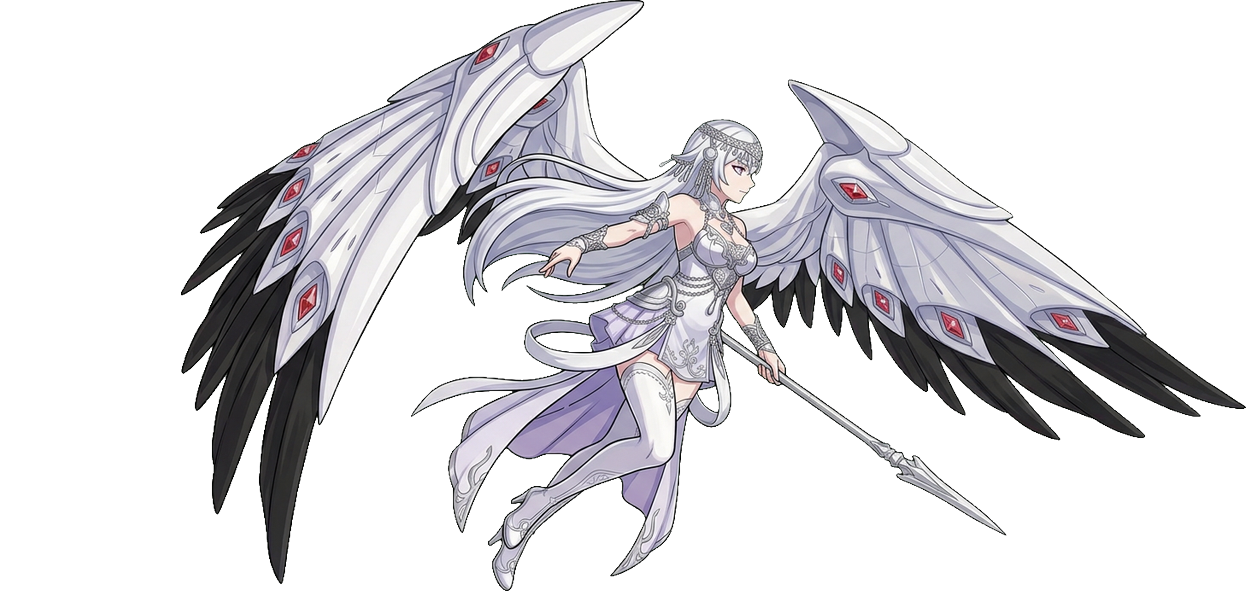
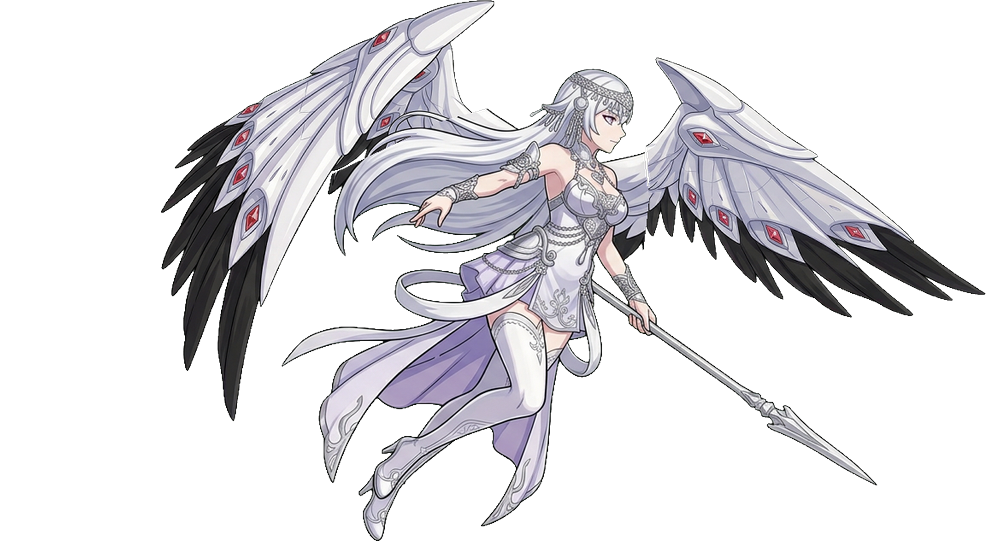
Айыына: крылья в кадре падения уменьшены примерно на четверть

diff --git a/Concepts/aiyyna/slice_aiyyna.py b/Concepts/aiyyna/slice_aiyyna.py
@@ -118,7 +118,7 @@ if __name__ == '__main__':
 
 def glide():
     """Отдельный кадр планирования: крылья раскрыты во всю ширину."""
-    rgba = load_rgba(os.path.join(HERE, 'glide_sheet.png'))
+    rgba = shrink_wings()
     m = rgba[..., 3] > 128
     lab, n = ndimage.label(m)
     sizes = ndimage.sum(m, lab, range(1, n + 1))
@@ -136,3 +136,45 @@ def glide():
     canvas.paste(img, (int(half - body_x), canvas.height - (CANVAS_H - FEET_Y) - img.height), img)
     canvas.save(os.path.join(OUT, 'glide.png'))
     print('glide', canvas.size)
+
+
+def shrink_wings(k=0.72):
+    """Уменьшает крылья на листе планирования: всё, что вне контура фигуры
+    (голова, волосы, тело, ноги, копьё), считается крылом и сжимается к
+    основанию крыла у спины. Фигура кладётся сверху без изменений."""
+    from PIL import ImageDraw
+    src = Image.fromarray(load_rgba(os.path.join(HERE, 'glide_sheet.png')))
+    W, H = src.size
+    body_poly = [(660, 175), (720, 168), (790, 228), (800, 330), (790, 420), (820, 468),
+                 (1080, 668), (1045, 672), (800, 500), (700, 520), (680, 705), (640, 712),
+                 (500, 732), (455, 700), (415, 660), (365, 525), (470, 440), (430, 385),
+                 (430, 300), (560, 238), (640, 215)]
+    pm = Image.new('L', (W, H), 0)
+    ImageDraw.Draw(pm).polygon(body_poly, fill=255)
+    pm_a = np.asarray(pm) > 0
+    s = np.asarray(src)
+    xs = np.arange(W)[None, :].repeat(H, 0)
+    body = s.copy(); body[..., 3] = np.where(pm_a, s[..., 3], 0)
+    out = Image.new('RGBA', (W, H), (0, 0, 0, 0))
+    # крыло = крупная связная область вне контура фигуры; сторона — по центру
+    # области. Мелкие обрывки (края платья, копья) остаются на месте, в фигуре.
+    outside = (~pm_a) & (s[..., 3] > 20)
+    lab, n = ndimage.label(outside)
+    sizes = ndimage.sum(outside, lab, range(1, n + 1))
+    left_ids, right_ids, keep_ids = [], [], []
+    for i, v in enumerate(sizes, 1):
+        if v < sizes.max() * 0.05:
+            keep_ids.append(i)
+        elif ndimage.center_of_mass(outside, lab, i)[1] < 620:
+            left_ids.append(i)
+        else:
+            right_ids.append(i)
+    body[..., 3] = np.where(pm_a | np.isin(lab, keep_ids), s[..., 3], 0)
+    for side, root in ((np.isin(lab, left_ids), (560, 250)), (np.isin(lab, right_ids), (800, 250))):
+        layer = s.copy(); layer[..., 3] = np.where(side, s[..., 3], 0)
+        rx, ry = root
+        # обратное отображение: точка вывода p -> источник R + (p - R) / k
+        m = (1 / k, 0, rx - rx / k, 0, 1 / k, ry - ry / k)
+        out.alpha_composite(Image.fromarray(layer).transform((W, H), Image.AFFINE, m, Image.BICUBIC))
+    out.alpha_composite(Image.fromarray(body))
+    return np.asarray(out).copy()
